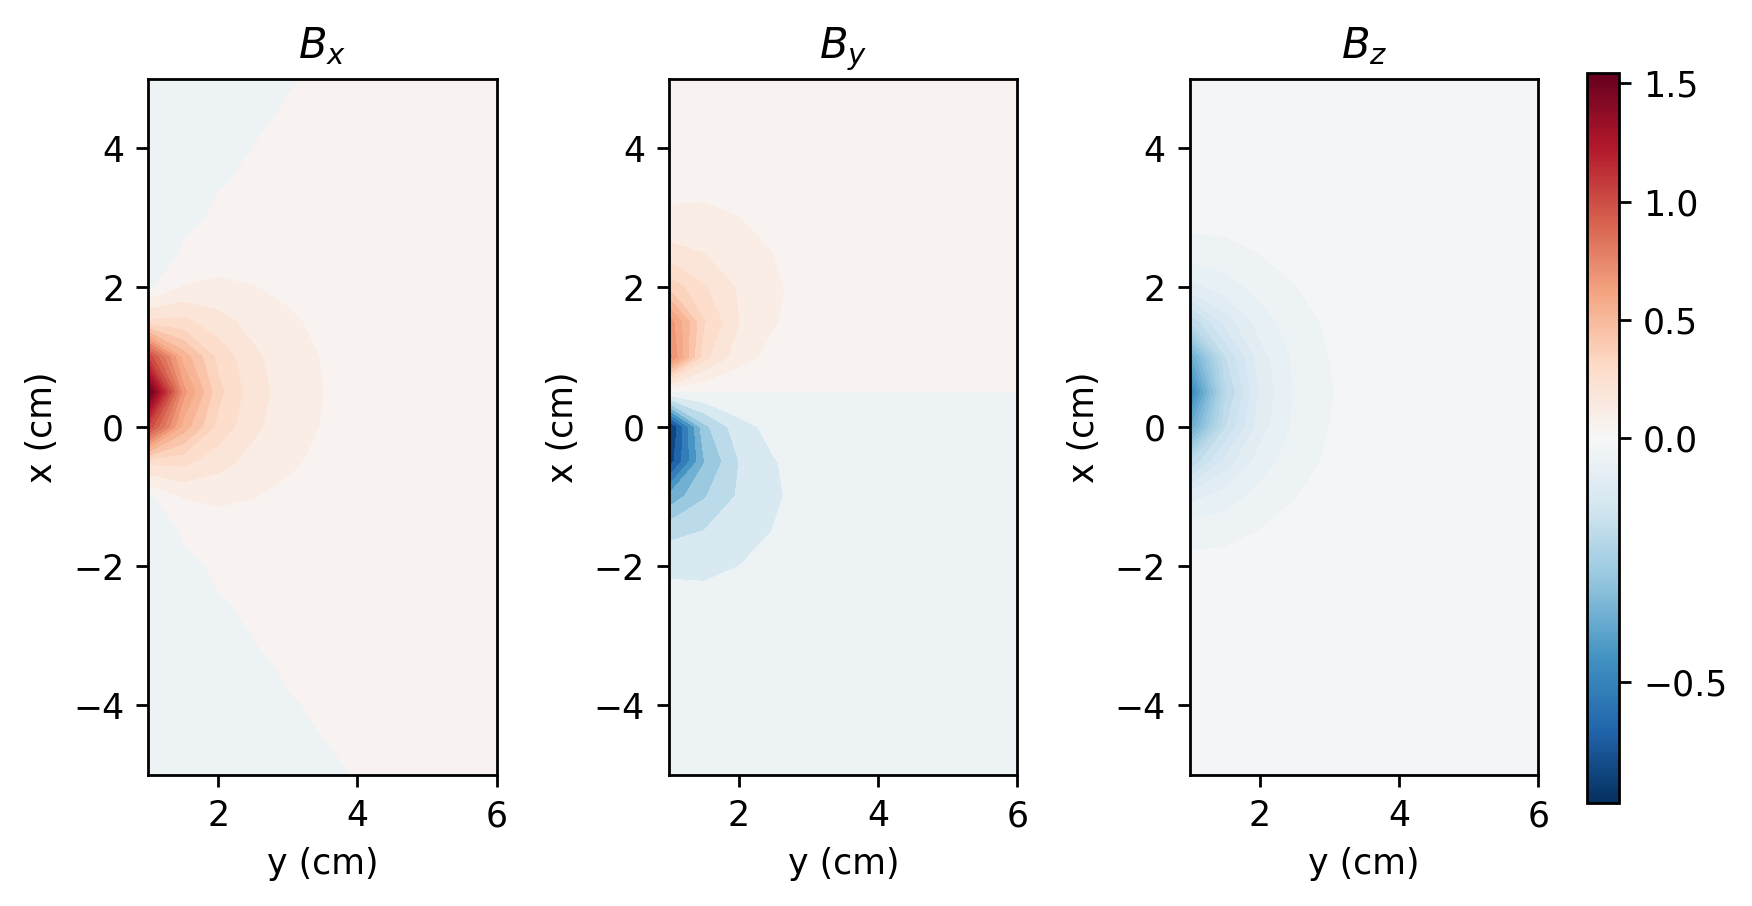
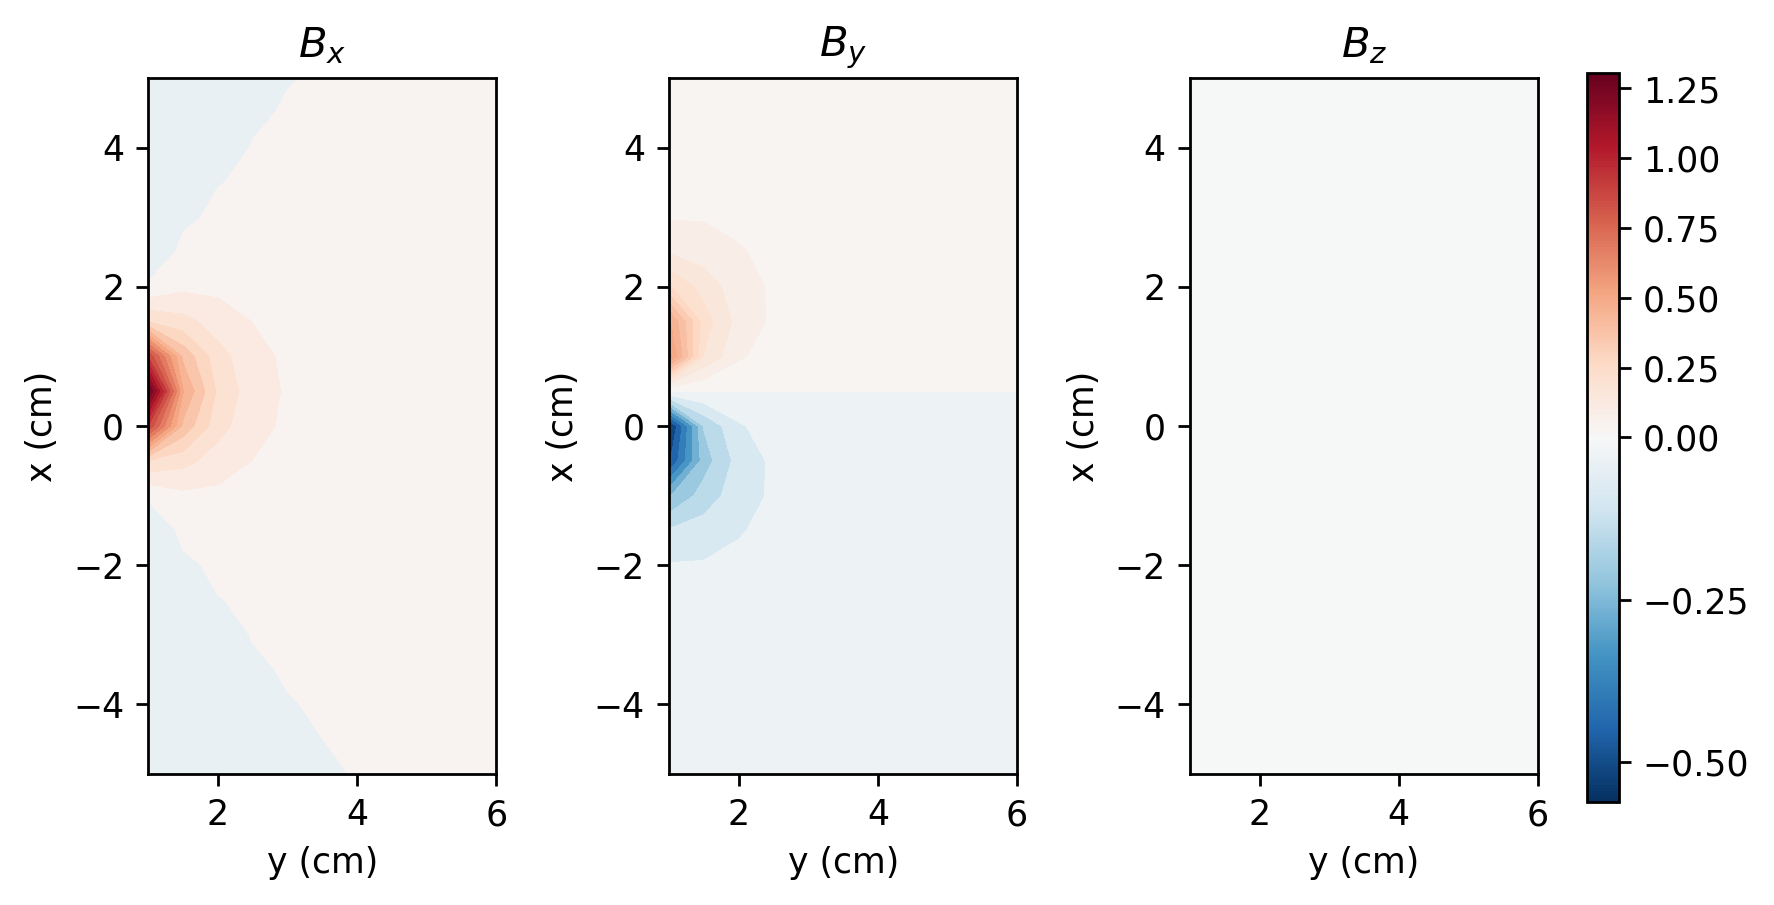
Mostly flushed out object system for scanner/coil

diff --git a/testing.py b/testing.py
@@ -1,17 +1,105 @@
 from scanner import Scanner
 from coil import Coil
 import numpy as np
+import sympy as smp
+import matplotlib.pyplot as plt
+from segment import Segment
+from lines import Curved, Straight
 
-# Code for testing:
-coil1 = Coil(False)
-coil1.coords = coil1.set_coords(np.array([[0,0,0], [1,0,0], [1,1,0], [0,1,0], [0,0,0]]))
+# # # Code for testing:
+# # coil1 = Coil(False)
+# # coil1.coords = coil1.set_coords(np.array([[0,0,0], [1,0,0], [1,1,0], [0,1,0], [0,0,0]]))
 
-coil2 = Coil(False)
-coil2.coords = coil2.set_coords(np.array([[0,0,1], [1,0,1], [1,1,1], [0,1,1], [0,0,1]]))
+# # coil2 = Coil(False)
+# # coil2.coords = coil2.set_coords(np.array([[0,0,1], [1,0,1], [1,1,1], [0,1,1], [0,0,1]]))
 
-bbox_test = [1.0, -5.0, -1.0, 6.0, 5.0, 1.0] # set bounding box; min and max of each of x, y, and z-coords ("frame" of magnetic field)
-vol_res_test = [0.5, 0.5, 0.5] # volume resolution; "granularity" of map
+# # bbox_test = [1.0, -5.0, -1.0, 6.0, 5.0, 1.0] # set bounding box; min and max of each of x, y, and z-coords ("frame" of magnetic field)
+# # vol_res_test = [0.5, 0.5, 0.5] # volume resolution; "granularity" of map
 
-test = Scanner(bbox_test, vol_res_test, [coil1, coil2])
-test.plot_coils()
+# # test = Scanner(bbox_test, vol_res_test, [coil1, coil2])
+# # test.plot_coils()
 
+# # ------------------------------------------------------------------
+# # PRESERVE - TEST CODE FOR CREATING CURVED SEGMENTS
+# # centre = smp.Matrix([0, 1, 1])
+# # dir_1 = smp.Matrix([1, 1, 0])
+# # dir_2 = smp.Matrix([0, 2, 1])
+# # t = smp.symbols('t')
+
+# # print("initial matrices:")
+# # print(centre)
+# # print(dir_1)
+# # print(dir_2)
+# # print("done")
+
+# # ellipse_fn = centre + dir_1 * smp.cos(t) + dir_2 * smp.sin(t)
+# # print(ellipse_fn)
+
+# # ellipse_fn_test = smp.lambdify(t, ellipse_fn, modules=['numpy'])
+
+# # t_range = np.linspace(0, 2 * np.pi, 100)
+
+# # x_coords, y_coords, z_coords = [], [], []
+
+# # for element in t_range:
+# #     x_coords.extend(ellipse_fn_test(element)[0])
+# #     y_coords.extend(ellipse_fn_test(element)[1])
+# #     z_coords.extend(ellipse_fn_test(element)[2])
+# # END SECTION FOR CREATING CURVED SEGMENTS
+# # ------------------------------------------------------------------
+
+# t = smp.symbols('t')
+# point = smp.Matrix([1, 1, 1])
+# dir = smp.Matrix([0, 1, 1])
+
+# straight_fn = point + t * dir
+
+# straight_fn_test = smp.lambdify(t, straight_fn, modules=['numpy'])
+
+# t_range = np.linspace(2, 4, 10)
+
+# x_coords, y_coords, z_coords = [], [], []
+
+# for element in t_range:
+#     x_coords.extend(straight_fn_test(element)[0])
+#     y_coords.extend(straight_fn_test(element)[1])
+#     z_coords.extend(straight_fn_test(element)[2])
+
+# # t, y = smp.symbols(['t', 'y'])
+# # x = 0.05*t + 0.2/((y - 5)**2 + 2)
+# # lam_x = smp.lambdify([t, y], x, modules=['numpy'])
+
+# # x_vals = np.linspace(0, 10, 101)
+# # y_vals = np.linspace(0, 10, 101)
+# # z_vals = lam_x(x_vals, y_vals)
+
+# fig = plt.figure()
+# ax = fig.add_subplot(111, projection='3d')
+# ax.set_xlabel("$x$")
+# ax.set_ylabel("$y$")
+# ax.set_zlabel("$z$")
+
+# ax.plot(x_coords, y_coords, z_coords, c = 'm')
+# plt.tight_layout
+# plt.show()
+
+# -------------------------------------------------
+# NEW TESTING - ENTIRE SCANNER SYSTEM (I THINK) ...
+line1 = Curved(1, 1, 1, 0, 0, 1, 0, 1, 0)
+
+test_seg1 = Segment(line1, 0, 2 * np.pi)
+
+test_coil1 = Coil()
+
+test_coil1.add_segment(test_seg1)
+
+bbox = (1.0, -5.0, -1.0, 6.0, 5.0, 1.0) # set bounding box; min and max of each of x, y, and z-coords ("frame" of magnetic field)
+vol_res = (0.5, 0.5, 0.5) # volume resolution; "granularity" of map
+
+test_scanner = Scanner(bbox, vol_res)
+
+test_scanner.add_coils(test_coil1)
+
+test_scanner.plot_coils()
+
+print("completed")

diff --git a/coil.py b/coil.py
@@ -1,6 +1,8 @@
 import sympy as smp
 import matplotlib.pyplot as plt
 import numpy as np
+import sympy as smp
+from segment import Segment
 
 class Coil:
     '''
@@ -18,70 +20,41 @@ class Coil:
     Methods
     -------
     '''
-    def __init__(self, piecewise : bool):
-        self.piecewise = self.set_piecewise(piecewise)
-        self.coords = self.set_coords
-
-    def set_piecewise(self, piecewise : bool):
-        '''
-        Validate and return piecewise using passed boolean
-
-        Parameters
-        ----------
-        piecewise : bool
-            Boolean defining whether the function to model the coil is piecewise or not
-
-        Returns
-        -------
-        ValueError
-            If invalid parameter passed 
-        piecewise
-            If valid parameter passed
-        '''
-
-        # Verify passed parameter is boolean
-        if not isinstance(piecewise, bool):
-            raise ValueError("Must pass boolean to set piecewise")
-        
-        # Passed parameter valid, so return piecewise
-        return piecewise
-        
-    def set_coords(self, coords : np.array):
-        '''
-        Validate and return coords using passed coords
-
-        Parameters
-        ----------
-        coords : smp.Matrix
-            Sympy matrix containing x, y, and z-coordinates of the coil
-
-        Returns
-        -------
-        ValueError
-            If passed matrix is invalid
-        coords
-            If passed matrix (coords) are valid coordinates
-        '''
-        
-        # Verify correct number of columns (should be three, for the x-, y-, and z-coordinates)
-        if np.shape(coords)[1] != 3:
-            raise ValueError("Matrix describes incorrect number of coordinates (i.e., matrix should only have three columns)")
-        
-        # Passed parameter validated; return coords
-        return coords
+    def __init__(self):
+        self.segments = [] # List of line segments
     
-    # def plot_coil(self, filename : str) -> bool:
     def plot_coil(self, ax : plt.axes) -> bool:
-        '''Save a 3D plot of a coil
+        '''Generate a 3D plot of a coil on a passed pyplot axis
 
         Parameters
         ----------
-
+        ax : plt.axes
+            Pyplot axis upon which to plot
+        
         Returns
         -------
         True
-            If plot is generated and saved to the passed filename
+            If plotting is complete without problems
         '''
 
-        ax.plot(self.coords[:,0], self.coords[:,1], self.coords[:,2], c='m')
+        for segment in self.segments:
+            x_coords, y_coords, z_coords = segment.get_coords()
+            ax.plot(x_coords, y_coords, z_coords, c='m')
+
         return True
+
+    def add_segment(self, segment : Segment):
+        '''
+        INSERT DOCUMENTATION
+        '''
+
+        # Check that object passed is a segment
+        if type(segment) != Segment:
+            raise TypeError('Segment object not passed as argument. Ensure passed argument is a segment object')
+
+        # Append segment to segments list, once type has been validated
+        self.segments.append(segment)
+
+        return True
+
+        

diff --git a/lines.py b/lines.py
@@ -1,0 +1,54 @@
+import numpy as np
+import sympy as smp
+import matplotlib.pyplot as plt
+
+class Curved:
+    '''
+    Class representing a curved line segment
+
+    Attributes
+    ----------
+    fn : sympy.expr
+        Sympy expression corresponding to the function describing the curved line (in 3D space)
+    parameter : smp.symbols
+        Sympy symbol corresponding to the parameter variable for the function
+    '''
+
+    def __init__(self, c_x : float, c_y : float, c_z : float,
+                 r1_x : float, r1_y : float, r1_z : float,
+                 r2_x : float, r2_y : float, r2_z : float):
+        '''
+        ADD DOCUMENTATION
+        '''
+
+        self.parameter = smp.symbols('t')
+
+        centre = smp.Matrix([c_x, c_y, c_z])
+        dir_1 = smp.Matrix([r1_x, r1_y, r1_z])
+        dir_2 = smp.Matrix([r2_x, r2_y, r2_z])
+        
+        self.fn = centre + dir_1 * smp.cos(self.parameter) + dir_2 * smp.sin(self.parameter)
+
+class Straight:
+    '''
+    Class representing straight line segment
+
+    Attributes
+    ----------
+    fn : sympy.expr
+        Sympy expression corresponding to the function describing the straight line (in 3D space)
+    parameter : smp.symbols
+        Sympy symbol corresponding to the parameter variable for the function
+    '''
+
+    def __init__(self, p_x : float, p_y : float, p_z : float,
+                 d_x : float, d_y : float, d_z : float): 
+        '''
+        ADD DOCUMENTATION
+        '''
+        self.parameter = smp.symbols('t')
+
+        point = smp.Matrix([p_x, p_y, p_z])
+        dir = smp.Matrix([d_x, d_y, d_z])
+
+        self.fn = point + self.parameter * dir

diff --git a/segment.py b/segment.py
@@ -1,0 +1,51 @@
+import sympy as smp
+from lines import Straight, Curved
+import numpy as np
+
+class Segment():
+    '''
+    A class used to represent a line segment as a sympy function
+
+    Parameters
+    ----------
+    type : str
+        Line type (currently, only Straight and Curved are supported)
+    low_lim : float
+        The lower limit of the parameter for the calculation of the segment
+    up_lim : float
+        The upper limit of the parameter for the calculation of the segment
+    '''
+
+    def __init__(self, fn : Curved | Straight, low_lim : float, up_lim : float):
+        '''
+        INSERT DOCUMENTATION
+        '''
+        self.line_fn = self.set_fn(fn)
+        self.low_lim = low_lim
+        self.up_lim = up_lim
+
+    def set_fn(self, fn : Curved | Straight):
+        '''
+        INSERT DOCUMENTATION
+        '''
+
+        if (type(fn) == Straight) | (type(fn) == Curved):
+            return fn
+        else:
+            raise TypeError("Unsupported segment type passed")
+        
+    def get_coords(self):
+        '''
+        INSERT DOCUMENTATION
+        '''
+        t_range = np.linspace(self.low_lim, self.up_lim, 50)
+        coords = [[], [], []]
+
+        fn = smp.lambdify(self.line_fn.parameter, self.line_fn.fn, modules=['numpy'])
+
+        for element in t_range:
+            coords[0].extend(fn(element)[0])
+            coords[1].extend(fn(element)[1])
+            coords[2].extend(fn(element)[2])
+
+        return coords[0], coords[1], coords[2]

diff --git a/biot_savart.py b/biot_savart.py
@@ -7,7 +7,7 @@ import matplotlib as mpl
 from scipy.constants import mu_0, pi
 import sympy as smp
 from sympy.vector import cross
-from skimage.restoration import unwrap_phase
+# from skimage.restoration import unwrap_phase
 
 from utils import B_volume, get_slice, B_volume_piecewise, return_coords
 from sympy_utils import create_sympy_circle, create_sympy_rectangle
@@ -21,7 +21,7 @@ t, x, y, z = smp.symbols('t, x, y, z') # correspond to parametrization variable,
 bbox = (1, -5, -1, 6, 5, 1) # set bounding box; min and max of each of x, y, and z-coords ("frame" of magnetic field)
 vol_res = (0.5, 0.5, 0.5) # volume resolution; "granularity" of map
 radius = 0.5  # for circles (coil shape)
-height, width = 1, 2  # for rectangles (coil shape)
+height, width = 1, 1  # for rectangles (coil shape)
 
 if piecewise is True: # e.g., square, rectangle, etc. coil shape
     # get l, the distance from the origin to the wire

diff --git a/scanner.py b/scanner.py
@@ -21,7 +21,7 @@ class Scanner:
     -------
     '''
 
-    def __init__(self, bbox : list, vol_res : list, coils=[]):
+    def __init__(self, bbox : list, vol_res : list):
         '''
         Parameters
         ----------
@@ -35,7 +35,7 @@ class Scanner:
 
         self.bbox = self.set_bbox(bbox)
         self.vol_res = self.set_vol_res(vol_res)
-        self.coils = coils
+        self.coils = []
     
     def set_bbox(self, bbox: list):
         '''Validate and set self.bbox using passed list
@@ -111,5 +111,17 @@ class Scanner:
 
         plt.tight_layout()
         plt.show()
+
+        print("coils plotted")
+        
         return True
     
+    def add_coils(self, coil : Coil):
+        '''
+        ADD DOCUMENTATION
+        '''
+
+        if type(coil) != Coil:
+            raise TypeError('Ensure object passed as the argument is a coil')
+        
+        self.coils.append(coil)
